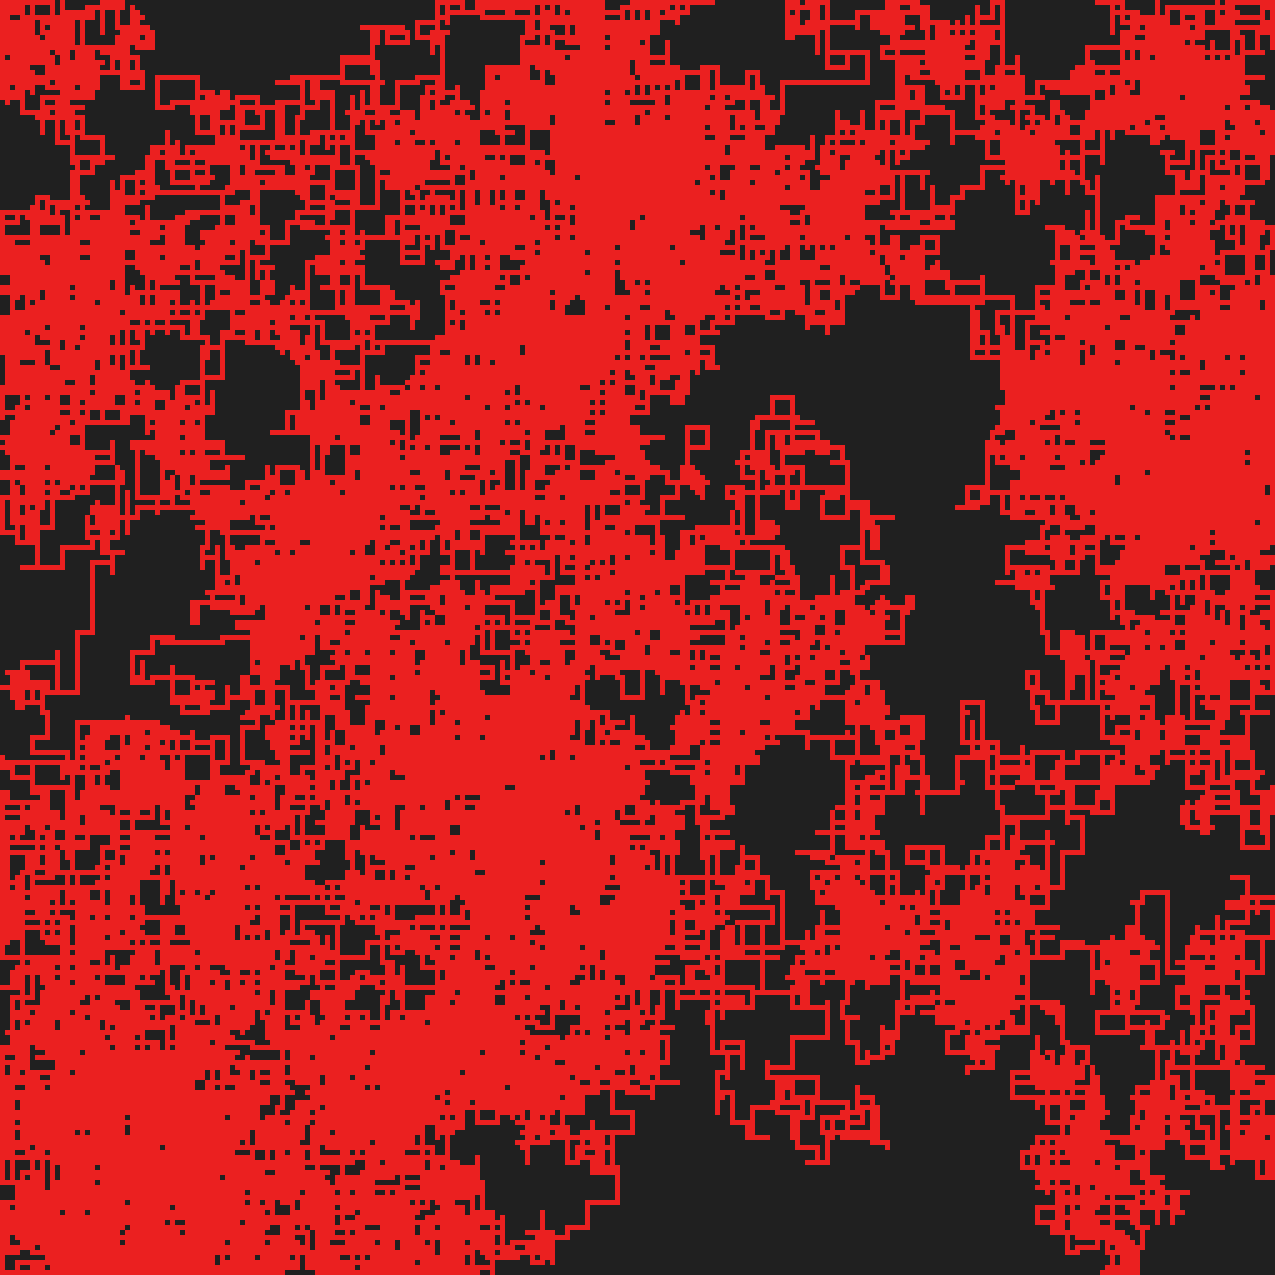
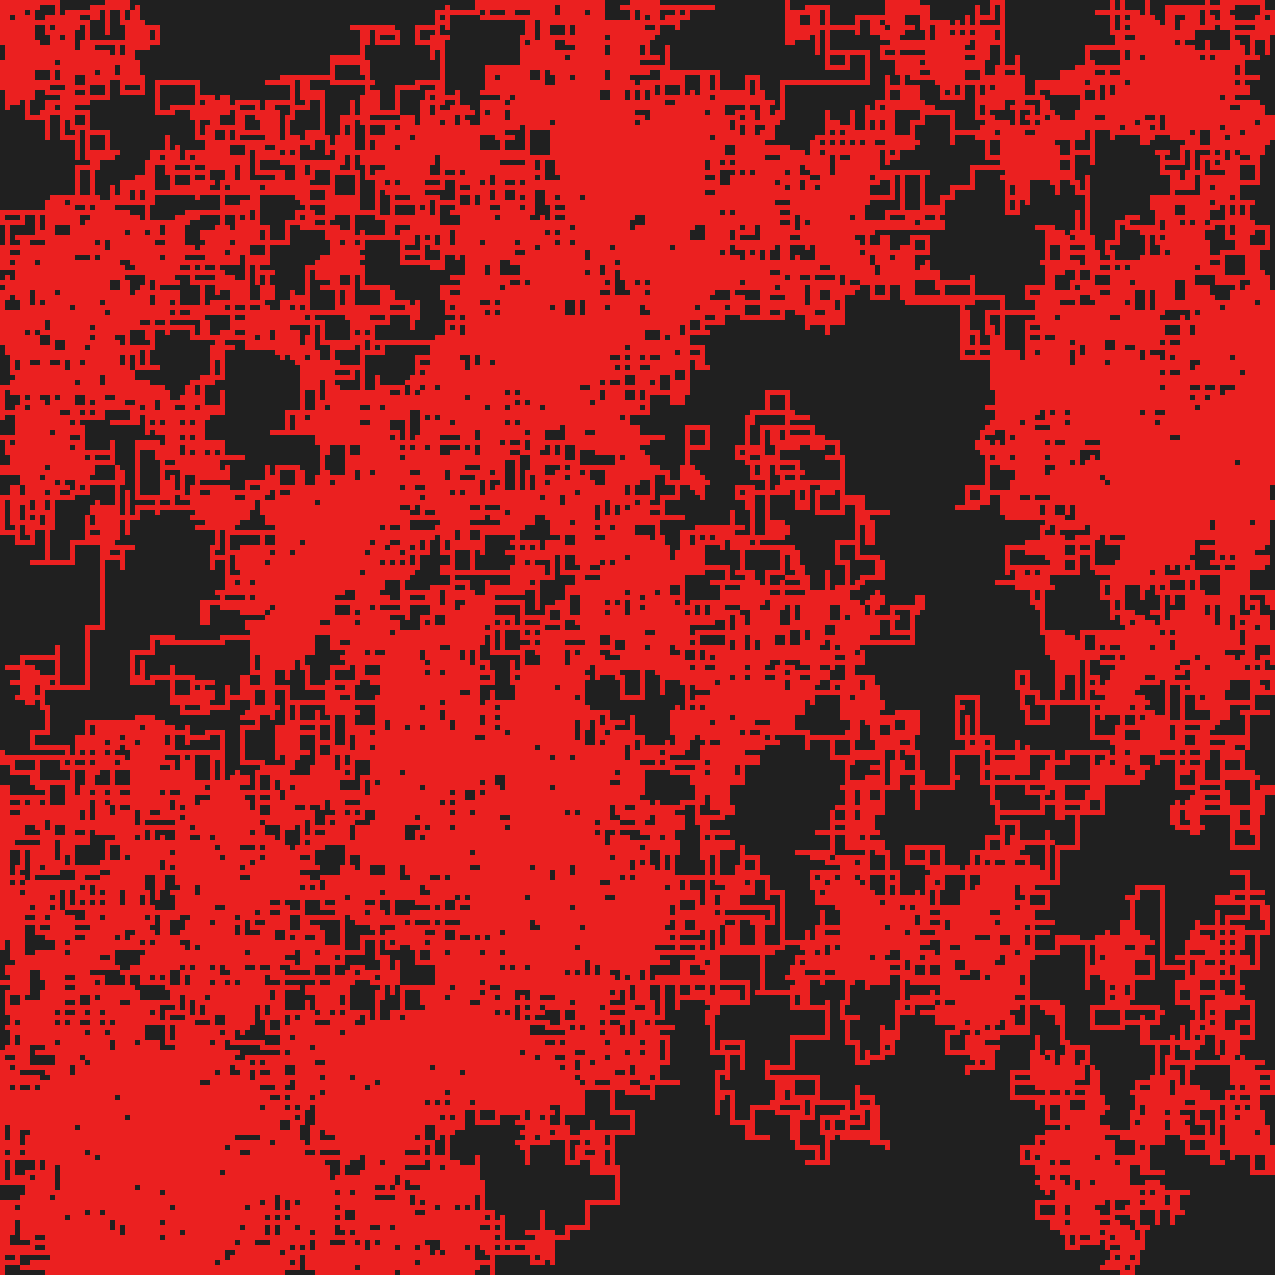
wfc and mc examples adjusted

diff --git a/examples/mc/src/main.rs b/examples/mc/src/main.rs
@@ -2,25 +2,26 @@ use grid_forge::{
     gen::{
         adjacency::AdjacencyAnalyzer,
         ms::MSAnalyzer,
-        wfc::{
-            builder::WFCCloneBuilder,
-            resolver::WFCResolver,
-            vis::{WFCVisGrid2D, WFCVisTile},
-        },
+        wfc::resolver::WFCResolver,
+        
     },
-    map::{vis::VisGrid2D, GridMap2D, GridSize},
-    tile::vis::DefaultVisPixel,
+    map::GridSize,
+    tile::{identifiable::{builder::IdentTileTraitBuilder, BasicIdentifiableTile2D}, vis::DefaultVisPixel}, vis::{collection::VisCollection, loader::VisIdentifiableLoader},
 };
 use rand::SeedableRng;
 
-type MyTile = WFCVisTile<DefaultVisPixel, 4, 4>;
-type MyGrid = GridMap2D<MyTile>;
-
 fn main() {
     // Initialize builder, which will take care of putting new tiles on specific places.
-    // As `WFCVisTile` is basic and implements `Clone`, the `WFCCloneBuilder` can be used. In other scenarios, the
-    // `WFCFunBuilder` needs to be used.
-    let mut builder = WFCCloneBuilder::default();
+    // As `BasicIdentifiableTile` implements `ConstructableViaIdentifierTile`, the `IdentTileTraitBuilder` can be used. 
+    let builder = IdentTileTraitBuilder::<BasicIdentifiableTile2D>::default();
+
+    // Initialize pixel collection, to retrieve pixels for each identifiable tile.
+    // Tile visual information need to be provided as const generic arguments there: its `Pixel` type, width and height
+    // of each tile as number of pixels in source image.
+    let collection = VisCollection::<BasicIdentifiableTile2D, DefaultVisPixel, 4, 4>::default();
+
+    // Both collection and builder needs to be passed into loader. 
+    let mut loader = VisIdentifiableLoader::new(collection, builder);
 
     // Load samples as grid maps.
     let seas_img = image::open("examples/assets/samples/seas.png")
@@ -28,19 +29,18 @@ fn main() {
         .unwrap()
         .into_rgb8();
 
-    let seas_grid = MyGrid::from_image(&seas_img).unwrap();
-    // Add tiles to the builder.
-    builder.add_tiles(seas_grid.iter_tiles(), false);
+    let seas_grid = loader.analyze_grid_image(&seas_img).unwrap();
 
     let roads_img = image::open("examples/assets/samples/roads.png")
         // let roads_img = image::open("../assets/samples/roads.png")
         .unwrap()
         .into_rgb8();
-    let roads_grid = MyGrid::from_image(&roads_img).unwrap();
-    // Add tiles to the builder.
-    builder.add_tiles(roads_grid.iter_tiles(), false);
+    let roads_grid = loader.analyze_grid_image(&roads_img).unwrap();
 
-    // Construct WFC Analyzer and provide the maps for analyzing.
+    // After loading the maps, we can retrieve the builder and collection for further reuse.
+    let (collection, builder) = loader.into_inner();
+
+    // Construct Model Synthesis analyzer and provide the maps for analyzing.
     let mut analyzer = MSAnalyzer::default();
     analyzer.analyze(&seas_grid);
     analyzer.analyze(&roads_grid);
@@ -58,7 +58,7 @@ fn main() {
     let mut rng = rand_chacha::ChaChaRng::from_seed(seed);
 
     // Create new grid via WFC Resolver.
-    let size = GridSize::new(30, 30);
+    let size = GridSize::new(100, 100);
     let mut resolver = WFCResolver::new(size, &analyzer);
     resolver.populate_map_all(&mut rng);
 
@@ -78,5 +78,8 @@ fn main() {
 
     let new_map = resolver.build_grid(&builder);
 
-    new_map.vis_grid_map().save("examples/model_synthesis.png").unwrap();
+    let mut out_buffer = collection.init_map_image_buffer(&size);
+    collection.draw_map(&new_map, &mut out_buffer).unwrap();
+
+    out_buffer.save("examples/model_synthesis.png").unwrap();
 }

diff --git a/examples/wfc/src/main.rs b/examples/wfc/src/main.rs
@@ -3,41 +3,37 @@ use grid_forge::{
         adjacency::AdjacencyAnalyzer,
         wfc::{
             analyzer::WFCAnalyzer,
-            builder::WFCCloneBuilder,
             resolver::WFCResolver,
-            vis::{WFCVisGrid2D, WFCVisTile},
         },
     },
-    map::{vis::VisGrid2D, GridMap2D, GridSize},
-    tile::vis::DefaultVisPixel,
+    map::GridSize,
+    tile::{identifiable::{builder::IdentTileTraitBuilder, BasicIdentifiableTile2D}, vis::DefaultVisPixel}, vis::{collection::VisCollection, loader::VisIdentifiableLoader},
 };
 use rand::SeedableRng;
-
-type MyTile = WFCVisTile<DefaultVisPixel, 4, 4>;
-type MyGrid = GridMap2D<MyTile>;
 
 fn main() {
     // Initialize builder, which will take care of putting new tiles on specific places.
     // As `WFCVisTile` is basic and implements `Clone`, the `WFCCloneBuilder` can be used. In other scenarios, the
     // `WFCFunBuilder` needs to be used.
-    let mut builder = WFCCloneBuilder::default();
+    let builder = IdentTileTraitBuilder::<BasicIdentifiableTile2D>::default();
+    let collection = VisCollection::<BasicIdentifiableTile2D, DefaultVisPixel, 4, 4>::default();
+
+    let mut loader = VisIdentifiableLoader::new(collection, builder);
 
     // Load samples as grid maps.
     // let seas_img = image::open("../assets/samples/seas.png").unwrap().into_rgb8();
     let seas_img = image::open("examples/assets/samples/seas.png")
         .unwrap()
         .into_rgb8();
-    let seas_grid = MyGrid::from_image(&seas_img).unwrap();
-    // Add tiles to the builder.
-    builder.add_tiles(seas_grid.iter_tiles(), false);
+    let seas_grid = loader.analyze_grid_image(&seas_img).unwrap();
 
     // let roads_img = image::open("../assets/samples/roads.png").unwrap().into_rgb8();
     let roads_img = image::open("examples/assets/samples/roads.png")
         .unwrap()
         .into_rgb8();
-    let roads_grid = MyGrid::from_image(&roads_img).unwrap();
-    // Add tiles to the builder.
-    builder.add_tiles(roads_grid.iter_tiles(), false);
+    let roads_grid = loader.analyze_grid_image(&roads_img).unwrap();
+
+    let (collection, builder) = loader.into_inner();
 
     // Construct WFC Analyzer and provide the maps for analyzing.
     let mut analyzer = WFCAnalyzer::default();
@@ -46,7 +42,7 @@ fn main() {
 
     // Seed for reproductability.
     // let mut seed: [u8; 32] = [1; 32];
-    let mut seed: [u8; 32] = [142; 32];
+    let mut seed: [u8; 32] = [0; 32];
 
     for (i, byte) in "wfc_example".as_bytes().iter().enumerate() {
         if i < 31 {
@@ -77,12 +73,9 @@ fn main() {
 
     let new_map = resolver.build_grid(&builder);
 
-    image::imageops::resize(
-        &new_map.vis_grid_map(),
-        480,
-        480,
-        image::imageops::FilterType::Nearest,
-    )
-    .save("examples/wfc.png")
-    .unwrap();
+    let mut out_buffer = collection.init_map_image_buffer(&size);
+
+    collection.draw_map(&new_map, &mut out_buffer).unwrap();
+    
+    out_buffer.save("examples/wfc.png").unwrap();
 }

diff --git a/grid_forge/src/tile/identifiable/mod.rs b/grid_forge/src/tile/identifiable/mod.rs
@@ -1,4 +1,6 @@
 use crate::GridPos2D;
+use self::builder::ConstructableViaIdentifierTile;
+
 use super::GridTile2D;
 
 pub mod builder;
@@ -16,14 +18,6 @@ where
     Self: GridTile2D,
 {
     fn get_tile_id(&self) -> u64;
-}
-
-/// Its implementation provides a way to construct new tile instance based on its GridPosition and tile ID.
-pub trait ConstructableViaIdentiferTile
-where
-    Self: IdentifiableTile,
-{
-    fn tile_new(pos: GridPos2D, tile_id: u64) -> Self;
 }
 
 /// Basic tile struct that implements [`IdentifiableTile`], holding only the most basic information.
@@ -49,7 +43,7 @@ impl IdentifiableTile for BasicIdentifiableTile2D {
     }
 }
 
-impl ConstructableViaIdentiferTile for BasicIdentifiableTile2D {
+impl ConstructableViaIdentifierTile for BasicIdentifiableTile2D {
   fn tile_new(pos: GridPos2D, tile_id: u64) -> Self {
       Self { pos, tile_id }
   }

diff --git a/grid_forge/src/gen/wfc/resolver.rs b/grid_forge/src/gen/wfc/resolver.rs
@@ -4,6 +4,7 @@ use crate::gen::adjacency::{AdjacencyAnalyzer, AdjacencyRules};
 use crate::gen::frequency::FrequencyRules;
 use crate::gen::utils::EntrophyQueue;
 use crate::map::{GridDir, GridMap2D, GridSize};
+use crate::tile::identifiable::builder::IdentTileBuilder;
 use crate::tile::{GridTile2D, identifiable::IdentifiableTile};
 use crate::GridPos2D;
 
@@ -286,7 +287,7 @@ where
 
     pub fn build_grid<B>(&self, builder: &B) -> GridMap2D<T>
     where
-        B: WFCTileBuilder<T>,
+        B: IdentTileBuilder<T>,
     {
         let size = self.wfc_grid.size();
 
@@ -296,7 +297,7 @@ where
             if !wfc_tile.collapsed {
                 continue;
             }
-            map.insert_tile(builder.create_wfc_tile(*pos, wfc_tile.tile_id));
+            map.insert_tile(builder.create_identifiable_tile(*pos, wfc_tile.tile_id));
         }
 
         map

diff --git a/grid_forge/src/gen/walker/mod.rs b/grid_forge/src/gen/walker/mod.rs
@@ -47,13 +47,21 @@ where
             self.step_size
         };
 
+        let mut current_pos = self.current_pos;
+        let mut walked = Vec::new();
+
         for _ in 1..step_size {
-            if let Some(pos) = GridDir::ALL[idx].march_step(&self.current_pos, &self.size) {
-                self.current_pos = pos;
-                self.walked.insert(pos);
+            if let Some(pos) = GridDir::ALL[idx].march_step(&current_pos, &self.size) {
+                current_pos = pos;
+                walked.push(pos);
             } else {
                 return false;
             }
+        }
+
+        self.current_pos = current_pos;
+        for walked_pos in walked.iter() {
+            self.walked.insert(*walked_pos);
         }
         true
     }

diff --git a/grid_forge/src/vis/collection.rs b/grid_forge/src/vis/collection.rs
@@ -8,10 +8,9 @@ use std::{
 use image::{ImageBuffer, Pixel};
 
 use crate::{
-    map::GridMap2D,
+    map::{GridMap2D, GridSize},
     tile::{
-        vis::{DefaultPixel, VisTile2D},
-        identifiable::IdentifiableTile,
+        identifiable::IdentifiableTile, vis::{DefaultPixel, VisTile2D}
     },
     GridPos2D,
 };
@@ -223,6 +222,11 @@ where
             return Ok(());
         }
         Err(VisError::NoPixelsError(tile.get_tile_id()))
+    }
+
+    pub fn init_map_image_buffer(&self, grid_size: &GridSize) -> ImageBuffer<P, Vec<P::Subpixel>> {
+
+        ImageBuffer::new(grid_size.x() * WIDTH as u32, grid_size.y() * HEIGHT as u32)
     }
 
     pub fn draw_map(

diff --git a/grid_forge/src/tile/identifiable/builder.rs b/grid_forge/src/tile/identifiable/builder.rs
@@ -117,6 +117,17 @@ where
     phantom: PhantomData<T>,
 }
 
+impl <T>Default for IdentTileTraitBuilder<T>
+where 
+    T: ConstructableViaIdentifierTile
+    {
+     fn default() -> Self {
+         Self {
+            phantom: PhantomData::<T>
+         }
+     }   
+    }
+
 impl<T> IdentTileBuilder<T> for IdentTileTraitBuilder<T>
 where
     T: ConstructableViaIdentifierTile,

diff --git a/grid_forge/src/vis/loader.rs b/grid_forge/src/vis/loader.rs
@@ -27,6 +27,11 @@ where
     Self { collection, builder }
   }
 
+  pub fn into_inner(self) -> (VisCollection<T, P, WIDTH, HEIGHT>, B)
+  {
+    (self.collection, self.builder)
+  }
+
   pub fn analyze_grid_image(&mut self, image: &ImageBuffer<P, Vec<P::Subpixel>>) -> Result<GridMap2D<T>, VisLoadError<WIDTH, HEIGHT>>
   {
     let size = check_grid_vis_size(image)?;
